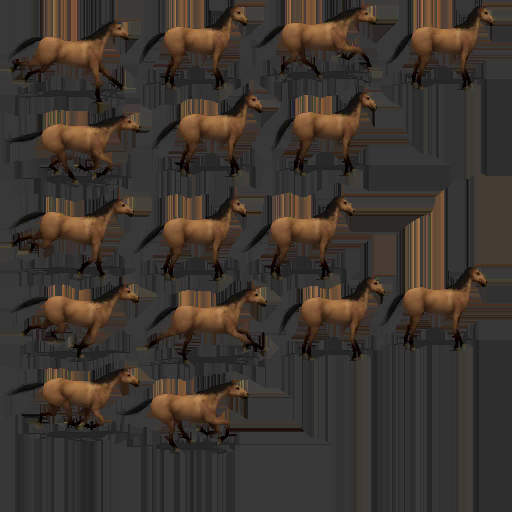
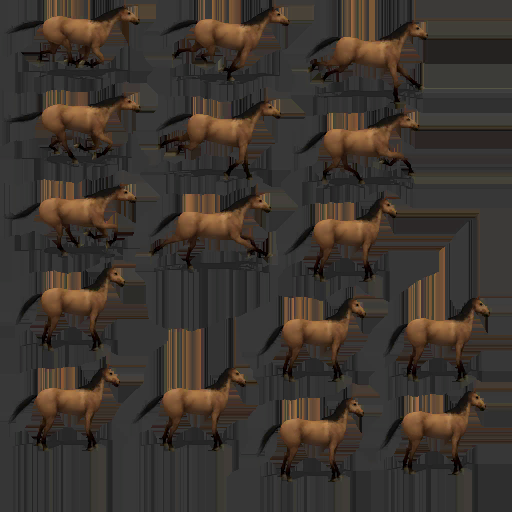
add TP algorithm mode

diff --git a/Assets/Editor/TPPacker/TPAtlasHelper.cs b/Assets/Editor/TPPacker/TPAtlasHelper.cs
@@ -8,12 +8,15 @@ public class TPAtlasHelper
     public const string PATH_ATLAS = UIConfig.PATH_ATLAS;
     public const string PATH_TP_TEMP = UIConfig.PATH_TP_TEMP;
     public const string PATH_ATLAS_TP = UIConfig.PATH_ATLAS_TP;
-    public static void MakePolyAtlas(Object obj, bool isCompress, bool isSplitChannel)
+
+    //algorithm:Polygon;MaxRects
+    public static void MakePolyAtlas(Object obj, bool isCompress, bool isSplitChannel, string algorithm = "Polygon")
     {
         string srcPath = AssetDatabase.GetAssetPath(obj);
         string name = Path.GetFileNameWithoutExtension(srcPath);
-        string pathAtlasTP = string.Format("{0}/{1}",PATH_ATLAS_TP,name);
-        if(!Directory.Exists(pathAtlasTP)){
+        string pathAtlasTP = string.Format("{0}/{1}", PATH_ATLAS_TP, name);
+        if (!Directory.Exists(pathAtlasTP))
+        {
             Directory.CreateDirectory(pathAtlasTP);
         }
         int totalCount = 5;
@@ -21,7 +24,7 @@ public class TPAtlasHelper
         try
         {
             EditorUtility.DisplayProgressBar(name, "MAKE_POLY_ATLAS", (++current) / totalCount);
-            TPAtlasPacker.MakeAtlas_Polygon(name, srcPath, PATH_TP_TEMP);
+            TPAtlasPacker.MakeAtlas_Polygon(name, srcPath, PATH_TP_TEMP, algorithm);
 
             EditorUtility.DisplayProgressBar(name, "SPLIT_CHANNEL_UI", (++current) / totalCount);
             TPAtlasPacker.SpiltChannel_UI(name, PATH_TP_TEMP, pathAtlasTP, isCompress, isSplitChannel);
@@ -46,10 +49,11 @@ public class TPAtlasHelper
     {
         string srcPath = AssetDatabase.GetAssetPath(obj);
         string name = Path.GetFileNameWithoutExtension(srcPath);
-        string pathAtlasTP = string.Format("{0}/{1}",PATH_ATLAS_TP,name);
-        if(!Directory.Exists(pathAtlasTP)){
+        string pathAtlasTP = string.Format("{0}/{1}", PATH_ATLAS_TP, name);
+        if (!Directory.Exists(pathAtlasTP))
+        {
             Directory.CreateDirectory(pathAtlasTP);
-        }       
+        }
         int totalCount = 5;
         int current = 0;
         try

diff --git a/Assets/Editor/UI/Core/LImageExtensionEditor.cs b/Assets/Editor/UI/Core/LImageExtensionEditor.cs
@@ -15,7 +15,7 @@ namespace UnityEditor.UI
             GameObject go = DefaultControls.CreateLImage();
             MenuOptions.PlaceUIElementRoot(go, menuCommand);
         }
-		[MenuItem("GameObject/UI/LImageForTP", false, 2001)]
+        [MenuItem("GameObject/UI/LImageForTP", false, 2001)]
         static public void AddLImageForTP(MenuCommand menuCommand)
         {
             GameObject go = DefaultControls.CreateLImageForTP();
@@ -40,6 +40,41 @@ namespace UnityEditor.UI
             image2.raycastTarget = raycastTarget;
             image2.type = type;
         }
+        [MenuItem("CONTEXT/Image/Image to LImageForTP")]
+        static void Image2LImageForTP(MenuCommand menuCommand)
+        {
+            Image image = menuCommand.context as Image;
+            GameObject go = image.gameObject;
+            var color = image.color;
+            var sprite = image.sprite;
+            var raycastTarget = image.raycastTarget;
 
+            var type = image.type;
+            GameObject.DestroyImmediate(image);
+
+            LImageForTP image2 = go.AddComponent<LImageForTP>();
+            image2.color = color;
+            image2.sprite = sprite;
+            image2.raycastTarget = raycastTarget;
+            image2.type = type;
+        }
+        [MenuItem("CONTEXT/LImage/LImage to LImageForTP")]
+        static void LImage2LImageForTP(MenuCommand menuCommand)
+        {
+            LImage image = menuCommand.context as LImage;
+            GameObject go = image.gameObject;
+            var color = image.color;
+            var sprite = image.sprite;
+            var raycastTarget = image.raycastTarget;
+
+            var type = image.type;
+            GameObject.DestroyImmediate(image);
+
+            LImageForTP image2 = go.AddComponent<LImageForTP>();
+            image2.color = color;
+            image2.sprite = sprite;
+            image2.raycastTarget = raycastTarget;
+            image2.type = type;
+        }
     }
 }

diff --git a/Assets/Scripts/UI/Atlas/AtlasManager.cs b/Assets/Scripts/UI/Atlas/AtlasManager.cs
@@ -37,7 +37,8 @@ public class AtlasManager
         m_AtlasMap = AssetDatabase.LoadAssetAtPath<AtlasMap>(pathAtlasMap);
         m_AtlasMap.Init();
     }
-    public bool GetIsPolyAtlas(string spriteName){
+    public bool GetIsPolyAtlas(string spriteName)
+    {
         bool isPoly;
         if (m_IsPolyDic.TryGetValue(spriteName, out isPoly))
         {
@@ -46,7 +47,7 @@ public class AtlasManager
         string atlasName = m_AtlasMap.GetAtlasNameBySpriteName(spriteName);
         AtlasInfo atlasInfo = GetAtlasInfo(atlasName);
         isPoly = atlasInfo.m_IsPoly;
-        m_IsPolyDic.Add(spriteName,isPoly);
+        m_IsPolyDic.Add(spriteName, isPoly);
         return isPoly;
     }
     public Vector4 GetPadding(string spriteName)
@@ -62,7 +63,8 @@ public class AtlasManager
         m_PaddingDic.Add(spriteName, padding);
         return padding;
     }
-    public AtlasInfo GetAtlasInfo(string atlasName){
+    public AtlasInfo GetAtlasInfo(string atlasName)
+    {
         AtlasInfo atlasInfo;
         if (!m_AtlasInfoDic.TryGetValue(atlasName, out atlasInfo))
         {
@@ -77,7 +79,8 @@ public class AtlasManager
         }
         return atlasInfo;
     }
-    public Sprite GetSprite(string sprName){
+    public Sprite GetSprite(string sprName)
+    {
         string atlasName = m_AtlasMap.GetAtlasNameBySpriteName(sprName);
         if (string.IsNullOrEmpty(atlasName))
         {
@@ -86,7 +89,8 @@ public class AtlasManager
         AtlasInfo atlasInfo = GetAtlasInfo(atlasName);
         return atlasInfo.GetSprite(sprName);
     }
-    public void GetSpriteAndMat(string sprName,out Sprite spr, out Material mat){
+    public void GetSpriteAndMat(string sprName, out Sprite spr, out Material mat)
+    {
         string atlasName = m_AtlasMap.GetAtlasNameBySpriteName(sprName);
         if (string.IsNullOrEmpty(atlasName))
         {

diff --git a/Assets/Editor/TPPacker/TPAtlasPacker.cs b/Assets/Editor/TPPacker/TPAtlasPacker.cs
@@ -28,12 +28,14 @@ public class TPAtlasPacker
     }
     public static void MakeAtlas_None(string name, string pathSrc, string pathDst)
     {
-        string args = "\"--max-size 2048 --force-squared --size-constraints POT --disable-rotation --trim-mode CropKeepPos --algorithm MaxRects --extrude 1 --border-padding 0 --shape-padding 0 --multipack\"";
+        string args = "\"--max-size 2048 --force-squared --size-constraints POT --disable-rotation --trim-mode CropKeepPos --algorithm MaxRects --extrude 1 --border-padding 0 --shape-padding 0 \"";
         MakeAtlas(name, pathSrc, pathDst, args);
     }
-    public static void MakeAtlas_Polygon(string name, string pathSrc, string pathDst)
+    //algorithm:Polygon;MaxRects
+    public static void MakeAtlas_Polygon(string name, string pathSrc, string pathDst, string algorithm = "Polygon")
     {
-        string args = "\"--max-size 2048 --force-squared --size-constraints POT --disable-rotation --trim-mode Polygon --algorithm Polygon --extrude 1 --border-padding 0 --shape-padding 0 --multipack\"";
+        string args = "\"--max-size 2048 --force-squared --size-constraints POT --disable-rotation --trim-mode Polygon --algorithm {0} --extrude 1 --border-padding 0 --shape-padding 0 \"";
+        args = string.Format(args, algorithm);
         MakeAtlas(name, pathSrc, pathDst, args);
     }
     #endregion

diff --git a/Assets/Editor/UI/UIMenuItem.cs b/Assets/Editor/UI/UIMenuItem.cs
@@ -1,14 +1,25 @@
 using UnityEditor;
 
-public class UIMenuItem {
-	[MenuItem("Assets/UI/打压缩Polygon图集", false, 1)]
-    static void ExportCompressAtlas_Polygon()
+public class UIMenuItem
+{
+    [MenuItem("Assets/UI/打压缩Polygon图集-TrimMode:Polygon", false, 1)]
+    static void ExportCompressAtlas_Polygon_TrimMode_Polygon()
     {
         EditorHelper.ExcuteAssetOperat(obj =>
         {
             bool isCompress = true;
             bool isSplitChannel = true;
-            TPAtlasHelper.MakePolyAtlas(obj, isCompress, isSplitChannel);
+            TPAtlasHelper.MakePolyAtlas(obj, isCompress, isSplitChannel, "Polygon");
+        }, SelectionMode.Assets);
+    }
+    [MenuItem("Assets/UI/打压缩Polygon图集-TrimMode:CropKeepPos", false, 1)]
+    static void ExportCompressAtlas_Polygon_TrimMode_CropKeepPos()
+    {
+        EditorHelper.ExcuteAssetOperat(obj =>
+        {
+            bool isCompress = true;
+            bool isSplitChannel = true;
+            TPAtlasHelper.MakePolyAtlas(obj, isCompress, isSplitChannel, "MaxRects");
         }, SelectionMode.Assets);
     }
     [MenuItem("Assets/UI/打压缩Nor图集", false, 2)]

diff --git a/Assets/Scripts/UI/Core/LImageForTP.cs b/Assets/Scripts/UI/Core/LImageForTP.cs
@@ -95,7 +95,7 @@ namespace UnityEngine.UI
                 float w;
                 float h;
                 #region LImageForTP
-                if (m_UseTPAtlas)
+                if (m_UseTPAtlas && (type == Image.Type.Sliced || type == Image.Type.Simple))
                 {
                     var padding = GetPadding(overrideSprite);
                     w = (overrideSprite.rect.width + padding.x + padding.z) / pixelsPerUnit;
